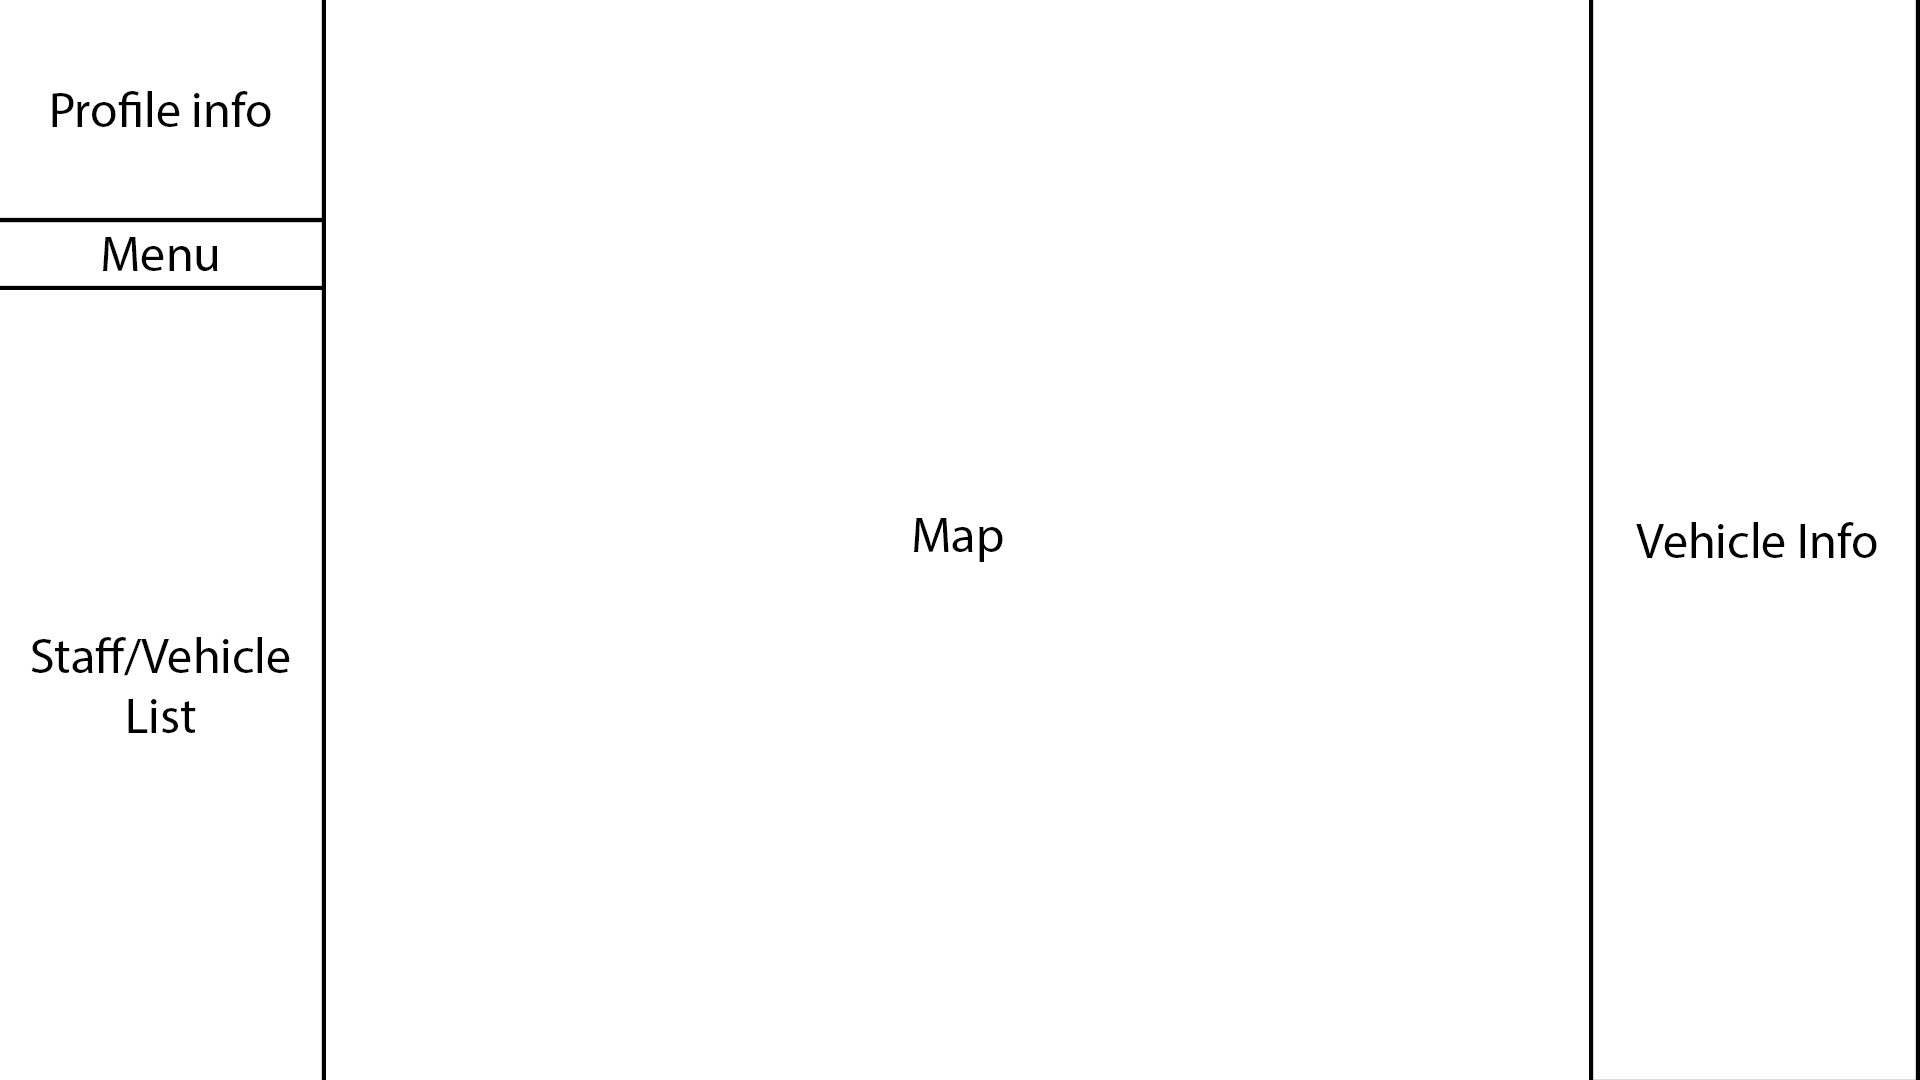
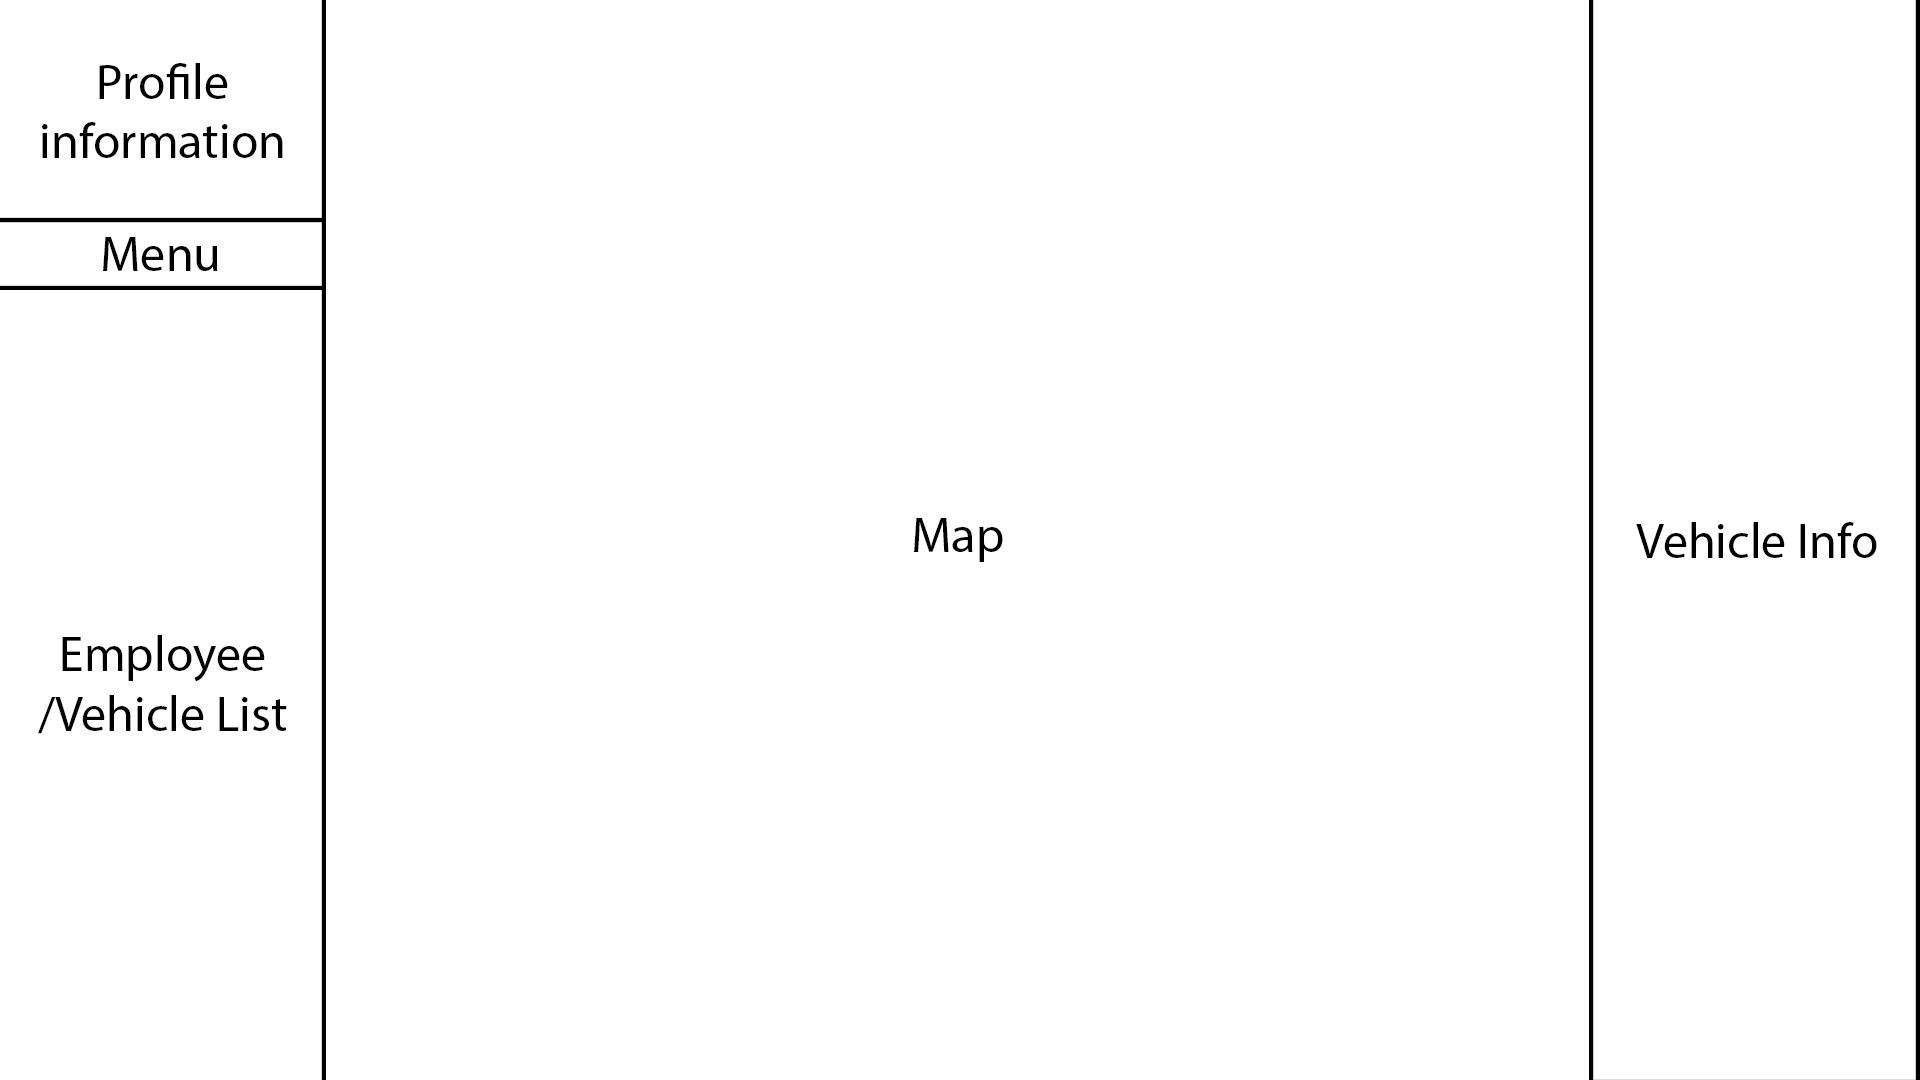
Rettelser

Changed region(s): [[0.0, 0.5806, 0.1562, 0.7028], [0.0, 0.0611, 0.1562, 0.1528]]

diff --git a/cha/implementation/comsumer_client/development/consumer_client_structure.tex b/cha/implementation/comsumer_client/development/consumer_client_structure.tex
@@ -10,59 +10,66 @@ When a user first enters the consumer client, a login screen will be presented a
 \begin{figure}[h]
     \centering
     \includegraphics[width=0.75\textwidth]{img/ConsumerClientLogin.png}
-    \caption{asdf.}
+    \caption{The login page for the consumer client.}
     \label{fig:ConsumerClientLogin}
 \end{figure}
 
 \bigskip
-When a user is logged in he is firstly presented for an overview of the dashboard.
+When a user is logged in he/she is firstly presented for an overview of the dashboard.
 
 \begin{figure}[h]
     \centering
     \includegraphics[width=0.75\textwidth]{img/ConsumerClientWText.png}
-    \caption{asdf.}
+    \caption{A structural overview of the dashboard for the consumer client.}
     \label{fig:ConsumerClientLayout}
 \end{figure}
 
 As can be seen in \cref{fig:ConsumerClientLayout}, the user can see his/her user information in the top left corner, this information is fetched through the REST API.
-More precisely the the users name, username and status is fetched.
-In the example the users status can be the following states (User, Super User).
+More precisely the users name, username and status is fetched.
+\begin{figure}[h]
+    \centering
+    \includegraphics[width=0.75\textwidth]{img/ConsumerClientProfile.png}
+    \caption{A display of how the profile information area looks.}
+    \label{fig:ConsumerClientProfile}
+\end{figure}
+In the example, which can be seen in \cref{fig:ConsumerClientProfile}, the users status can be wither a user or a super user.
 The user's image is also fetched through the REST API, the image is Base64 encoded and represented as a background image, however if the user has no image, a default image will be shown.
 
 \bigskip
-Beneath the user information a small menu can be seen, this menu is used to navigate between two lists, a list containing all the employees of the designated company, and another list which represents all the vehicles which is connected to the company.
+Beneath the profile information a small menu can be seen, \cref{fig:ConsumerClientLayout}, this menu is used to navigate between two lists.
+A list containing all the employees of the designated company, and another list which represents all the vehicles which is connected to the company.
 
 \begin{figure}[h]
     \centering
     \includegraphics[width=0.75\textwidth]{img/displayOfMenuesInConsumerClient.png}
-    \caption{asdf}
+    \caption{Display of what the different employee and vehicles can contain.}
     \label{fig:ConsumerClientMenus}
 \end{figure}
 
 In the list of all the employees, the name, username, image and the current status of the driver can be seen.
-This status is not like the status shown in the user information area, this status is whether the users are currently driving or parked.
-If a user is currently driving, an image of the vehicle will be shown next to the users image.
+This status is not like the status shown in the profile information, this status is whether the users are currently driving or parked.
+If a user is currently driving, an image of the vehicle will be shown next to the user's image.
 The list of users is automatically to fit to the newest data from the REST API.
 
-Likewise in the list of vehicles, some information can be seen of each vehicle.
+Likewise in the employee/vehicle list, some information can be seen of each vehicle.
 This information consists of the make and model, an image of the vehicle and whether the vehicle is currently driving or parked.
 If the vehicle is currently driving, a small image of the driver will be shown next to the image of the vehicle.
 
 If the user of the dashboard clicks on either a vehicle or a driver, which is currently driving, the map will automatically center the map around the currently active route the vehicle is driving.
 
 \bigskip
-The dashboard also contains a interactive map, the user is able to zoom and move the map, and through the REST API, the consumer client is able to show the currently active vehicles within the currently visible part of the map.
-All the routes which are shown will continually be updated, and movement can be shown in real time.
+The dashboard also contains an interactive map, the user is able to zoom and move the map, and through the REST API, the consumer client is able to show the currently active vehicles within the currently visible part of the map.
+All the routes which are shown will continually be updated, and movement can be shown in real--time.
 All vehicles on the map will by default be represented by a small yellow truck, however if the vehicle has a custom image, the image will be loaded and shown instead of the yellow truck.
 
 \begin{figure}[h]
     \centering
     \includegraphics[width=0.75\textwidth]{img/Truck_Yellow.png}
-    \caption{asdf}
+    \caption{The default yellow truck which will be seen on the map, if the vehicle has no custom image.\footnote{\url{https://www.iconfinder.com/icons/22999/lorry_transport_transportation_truck_vehicle_yellow_icon}}}
     \label{fig:ConsumerClientYellowTruck}
 \end{figure}
 
-All the routes which are drawn on the map are polypaths which is drawn between the different GPS coordinates which the vehicle it self sends to the REST API.
+All the routes which are drawn on the map are polypaths which are drawn between the different GPS coordinates which the vehicle itself sends to the REST API.
 A polypath is a line drawn on the interactive map, between an ordered list of GPS coordinates.
 
 
@@ -70,15 +77,15 @@ A polypath is a line drawn on the interactive map, between an ordered list of GP
 \begin{figure}[h]
     \centering
     \includegraphics[width=0.75\textwidth]{img/ConsumerClientMap.png}
-    \caption{asdf}
+    \caption{An example of how the interactive map could look. Displaying a theoretical route.}
     \label{fig:ConsumerClientMap}
 \end{figure}
 When a vehicle is clicked, a menu in the right side will be shown, this menu currently contains nothing, but could be used to show more advanced vehicle information, for instance live vehicle data, and previous routes the vehicle has driven.
 
 \bigskip
-This consumer client allows for a fast overview of the entire fleet, while also grants the company an opportunity to track at each of the vehicles on the map and show live information of it in the same time.
+The consumer client allows for a fast overview of the entire fleet, while also granting the company an opportunity to track its vehicles in real--time on the map and show the current information at the same time.
 
-Since the company is able to track the vehicles in real time, the tool could be used to help prevent future damages to the vehicles.
-This can be done by analysing either the real time data, or by looking for anomalies or deviations in the data from previous routes.
+Since the company is able to track the vehicles in real--time, the consumer client could be used to help prevent future damages to the vehicles.
+This can be done by analysing either the real--time data, or by looking for anomalies or deviations in the data from previous routes.
 
 \fxnote{vise noget kode i løbet af afsnittet?}

diff --git a/cha/implementation/comsumer_client/development/benefits_consumer_client.tex b/cha/implementation/comsumer_client/development/benefits_consumer_client.tex
@@ -1,16 +1,16 @@
 \subsection{Benefits of the consumer client}\label{ssec:benefits_consumer_client}
-Some of the benefits which came from developing the consumer client was not only the ability to show the different aspects and capabilities of the REST API, but also the ability to get a feeling for some of the missing functionalities.
+Some of the benefits which came from developing the consumer client was not only the ability to show the different aspects and capabilities of the REST API, but also the ability to get a feeling for some of the missing functionalities, and in the proccess help to discover any logical errors or inconsistencies.
 
 \bigskip
 \fxnote{skal der indæsttes den request der blev skrevet på slack?}
-During the development it was discovered that loading all the currently active routes into the consumer client would have a devastating effect upon the performance.
+During the development it was discovered that loading all the currently active routes into the consumer client would have a devastating effect upon the performance of the consumer client.
 In order to comply with this, a limitation to the amount of active routes which is shown at once needed to be implemented.
 This functionality would make it possible to only get the active routes with a given area was requested from the REST API.
-With the functionality implemented an immediately improvement could be felt through out the consumer client.
+With the functionality implemented an immediately improvement could be felt throughout the consumer client.
 
 \bigskip
 \fxnote{skal der indæsttes den request der blev skrevet på slack?}
-Throughout the development of the consumer client, it was also discovered that an attribute directly on the employee which would indicate if the employee had a image or not would greatly benefit the overall  complexity and performance.
+Throughout the development of the consumer client, it was also discovered that an attribute directly on the employee which would indicate if the employee had an image or not would greatly benefit the overall complexity and performance.
 As it was for each of the employees, the consumer client would have to request the image from the REST API, if the image was not found, it would use the default image, with the attribute on the employee, the request to the REST API would only be send if they had an image.
 This functionality would vastly decrease the amount of requests which would be send to the server, thereby decreasing the load on both the REST API and the consumer client.
 
@@ -19,11 +19,11 @@ This functionality would vastly decrease the amount of requests which would be s
 When the list of the vehicles is loaded, it was needed to check if a specific vehicle was active on a route at the current time.
 In the beginning this was done by loading all active routes, then comparing the current vehicle id with the vehicle id on all active routes.
 If the current vehicle was found, then the vehicle was currently driving, else it was parked.
-By putting an attribute on the vehicle it self, the consumer client is not able to determine whether the vehicle is active or not without having to iterate over all the active routes for each of the vehicles.
-By doing this the performance of the consumer client the load on the consumer client was decreased and the performance was improved.
+By putting an attribute on the vehicle itself, the consumer client is able to determine whether the vehicle is active or not without having to iterate over all the active routes for each of the vehicles.
+Doing this would lead to an increase in performance and a decrease in the  load on the consumer client.
 
 \bigskip
-By developing the consumer client not only did it help on discovering some functionality which could help other developers develop an consumer client for the REST API, it also helped discover some not fully functioning areas of the REST API.
+By developing a consumer client not only did it help on discovering some functionality which could help other developers develop an consumer client for the REST API, it also helped discover some not fully functional areas of the REST API.
 During the first time of displaying active routes on the map, it was discovered that only the latest route would show, even though there were more active routes.
 This incident was due to a lazy load error from the database in the REST API and therefore helped with discovery of this error in the REST API.
 

diff --git a/cha/implementation/comsumer_client/technologies/AngularJS.tex b/cha/implementation/comsumer_client/technologies/AngularJS.tex
@@ -1,10 +1,10 @@
 \subsection{AngularJS} \label{ssec:angular}
 AngularJS\footnote{\url{https://angularjs.org/}} is a front--end framework developed and maintained by Google, which generates a single--page web application.
-It is open-source and uses components written in JavaScript to generate its content.
+It is open--source and uses components written in JavaScript to generate its content.
 
 \bigskip
 There is currently two different major versions of AngularJS available, version 1 and version 2\footnote{\url{https://angular.io/docs/ts/latest/cookbook/a1-a2-quick-reference.html}}.
-Some of the major differences between these two versions are that Angular 2 was build towards mobile support, and was build with modularity in mind.
+Some of the major differences between these two versions are that Angular2 was build towards mobile support, and with modularity in mind.
 This meaning that in Angular 1 the different modules are relying on controllers and \code{\$scope} in order to get the current context of the page.
 In Angular 2 the different modules are divided into different modules called components, theses components allow access to the context of the current module only, while still allow for communication through two--way bindings with parent components.
 One of the AngularJS goals is to ease the development and testing of a web application, this is done by producing a JavaScript framework which assists the MVC and the MVVM design patterns.
@@ -13,7 +13,7 @@ One of the AngularJS goals is to ease the development and testing of a web appli
 When compiling the AngularJS project, the compiler firstly reads through the HTML page looking for embedded tags with custom attributes, which is interpreted.
 Then these attributes are used to directly bind data from the defined components into those HTML tags, thereby representing the defined variables in the HTML view.
 
-The framework it self extends the HTML in order for it to present the bound data through two--way data--bindings which allows it to make automatic synchronization between the models and views.
+The framework itself extends the HTML in order for it to present the bound data through two--way data--bindings which allows it to make automatic synchronization between the models and views.
 This makes it possible for AngularJS to decrease the amount of explicit \ac{DOM} manipulation which allows for improved performance.
 
-According to AngularJS some of the design goals is to decentralize the manipulation of the HTML files from the applications logic it self, and for the client side and the server side to be deployed separately.
+According to AngularJS some of the design goals are to decentralize the manipulation of the HTML files from the applications logic itself, and for the client side and the server side to be deployed separately.

diff --git a/cha/implementation/comsumer_client/technologies/jquery.tex b/cha/implementation/comsumer_client/technologies/jquery.tex
@@ -1,5 +1,5 @@
 \subsection{jQuery} \label{ssec:jquery}
-jQuery is one of the most used JavaScript libraries on the internet, and is according to \textit{builtwith.com} used on up to 18.4\% of all websites.\footnote{\url{https://trends.builtwith.com/JavaScript/jQuery}}
+jQuery is one of the most used JavaScript libraries on the internet, and is according to \textit{builtwith.com} used on up to 18.4\% of all websites.\footnote{\url{https://trends.builtwith.com/JavaScript/jQuery}, (20. dec 2016)}
 jQuery makes is possible to manipulate and traverse HTML document, and make \ac{AJAX} calls through JavaScript relatively easy.
 It also makes it easier to register events and make animations than regular JavaScript, which makes the jQuery library useful for general web development.
 jQuery has an internal API which is easy to use, is multi browser compatible, and all this is boiled down to a small and fast package.

diff --git a/cha/implementation/comsumer_client/technologies/technologies.tex b/cha/implementation/comsumer_client/technologies/technologies.tex
@@ -1,5 +1,5 @@
 \section{Technologies} \label{sec:technologies}
-In order to construct the consumer client, and overview of the different technologies, which could be used in this solution, is gathered.
+In order to construct the consumer client, an overview of the different technologies, which could be used in this solution, is achieved.
 This is done to ensure that the consumer client uses these frameworks to their full potential.
-This research helps us realise the overall idea for the consumer client, instead of focusing on specific browser compatibility issues, i.e.~Asynchronous JavaScript and XML \ac{AJAX}.
+This research helps us realise the overall idea for the consumer client, instead of focusing on specific browser compatibility issues, i.e.~\ac{AJAX}.
 The consumer client is communicating with the REST API, and presents the data which it receives in such a way that the consumer can understand it.

diff --git a/cha/implementation/comsumer_client/development/meta.tex b/cha/implementation/comsumer_client/development/meta.tex
@@ -1,3 +1,3 @@
 \section{Development of the Consumer Client}\label{sec:DevelopmentConsumerClient}
-In the planning of the consumer client, we discovered that the different parts of the client would have to communicate with different part of the Rest API.
-Therefore we choose to go with Angular2 since it would allow for a modular client, these modules are called components in Angular2 and allows for different parts of the client to be developed separately.
+In the planning of the consumer client, we discovered that the different parts of the client would have to communicate with different part of the REST API.
+Therefore we chose to go with Angular2 since it would allow for a modular client, these modules are called components in Angular2 and allows for different parts of the client to be developed separately.

diff --git a/cha/implementation/comsumer_client/meta.tex b/cha/implementation/comsumer_client/meta.tex
@@ -1,2 +1,2 @@
 In this chapter the implementation of the consumer client will be presented.
-This chapter will also discussed the different technologies which is used for the consumer client, and how the consumer client is constructed and what data has been chosen to be displayed.
+This chapter will also discussed the different technologies which are used for the consumer client, how the consumer client is constructed, and what data has been chosen to be displayed.

diff --git a/cha/implementation/comsumer_client/consumer_client_fig.tex b/cha/implementation/comsumer_client/consumer_client_fig.tex
@@ -78,6 +78,6 @@
             \node [above = 0.5em of what_b, anchor = east, inner sep = 0.5em]{Front--end};
         \end{pgfonlayer}
     \end{tikzpicture}
-    \caption{asdf}
+    \caption{A diagram of the flow, and different models throughout the consumer client.}
     \label{fig:consumer_client}
 \end{figure}

diff --git a/preamble/acronyms.tex b/preamble/acronyms.tex
@@ -67,3 +67,6 @@
 \acrodef{SJO}{Specialized Java Object}
 \acrodef{Java EE}{Java Enterprise Edition}
 \acrodef{VIN}{vehicle identification number}
+
+\acrodef{DOM}{Document Object Model}
+\acrodef{AJAX}{Asynchronous JavaScript and XML}
